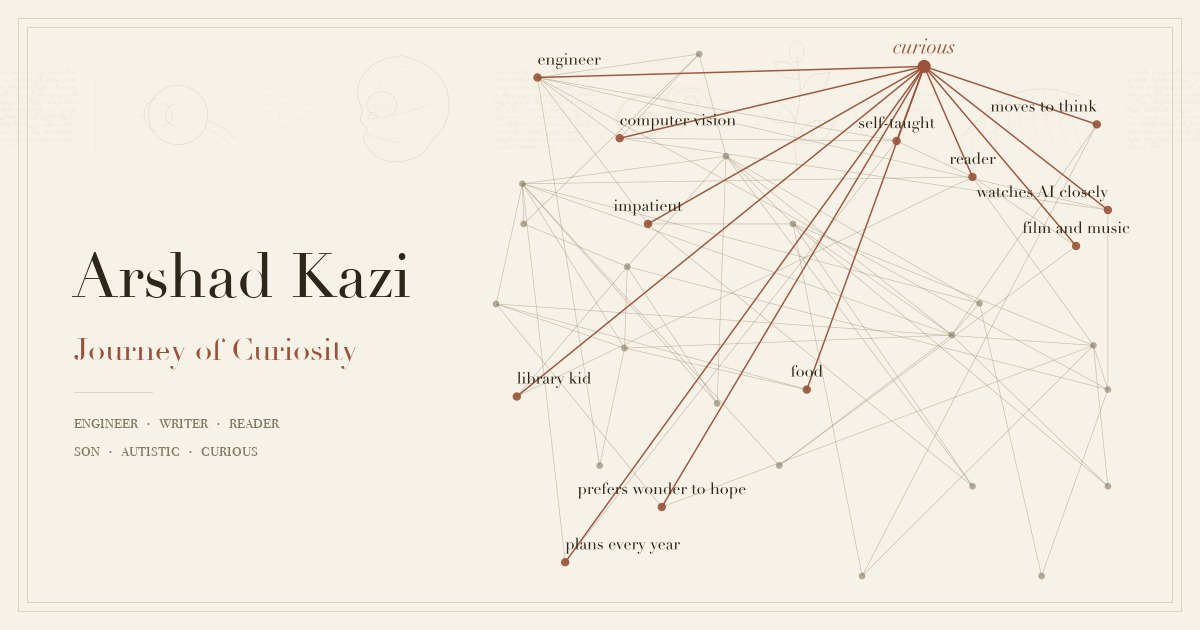
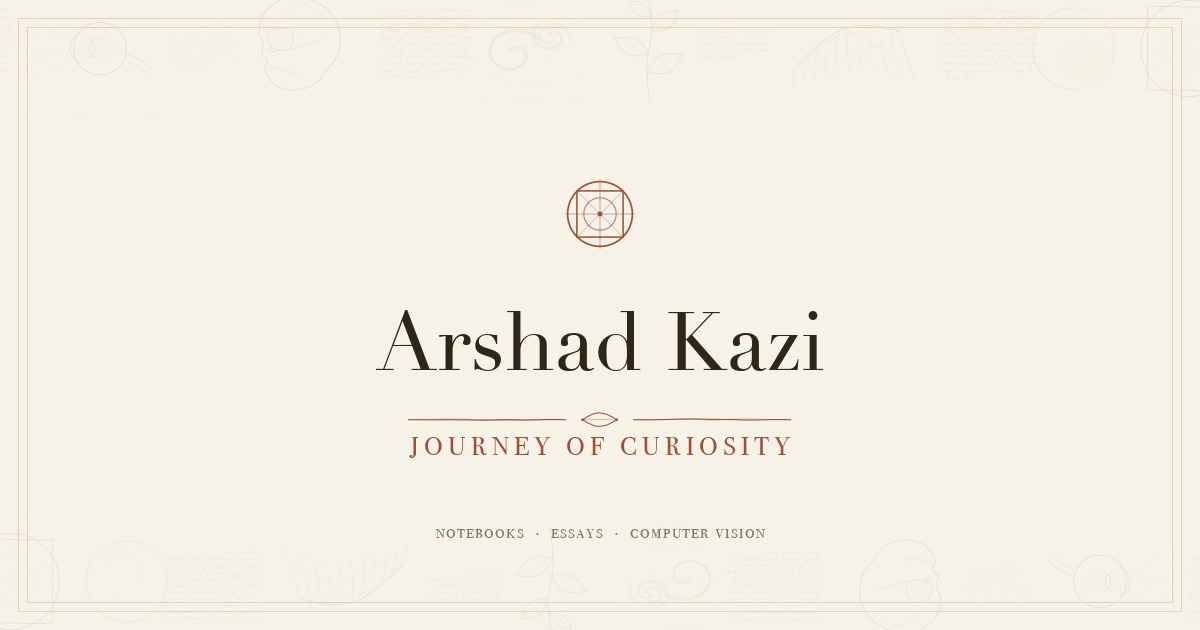
Make the sharing card a title page rather than the drawing
The drawing does not survive being shrunk to a chat thumbnail: the ties
turn to noise and the names are unreadable at that size, which is a poor
first impression of a page whose whole point is legibility.

The card is a title page now. The emblem from the masthead, the name, the
site's line under a flourish, and what is actually here underneath it. The
codex sketches run along the top and bottom edges at fifteen per cent, so
they read as the paper rather than as the picture, and the middle stays
clear. Same ruled frame and the same cream as the other three cards.

diff --git a/generate-og-about.py b/generate-og-about.py
@@ -1,15 +1,14 @@
 #!/usr/bin/env python3
-"""Build the About page's sharing card from the page itself.
+"""Build the sharing card for the site's front page.
 
-The card is the constellation, not a headshot, because the constellation is
-what the page is. Positions and ties are read straight out of the built
-index.html, so the card can never drift from the drawing it represents:
-rebuild the site, run this, and it matches.
+Not the drawing and not a headshot. A title page: the emblem from the
+masthead, the name, the site's own line, ruled the way the other cards are
+ruled, on the same paper. The codex sketches sit at the edges faint enough
+to read as texture rather than as a subject.
 
-    npm run build && python3 generate-og-about.py
+    python3 generate-og-about.py
 """
 
-import math
 import re
 import subprocess
 import tempfile
@@ -25,171 +24,113 @@ MUTED = (133, 122, 98)
 ACCENT = (156, 81, 56)
 BORDER = (221, 210, 186)
 
-BUILT = Path("dist/index.html")
+BAND = Path("public/images/codex-band.svg")
+FLOURISH = Path("public/images/flourish.svg")
 OUT = Path("public/images/og-about.jpg")
 
-
-def read_drawing():
-    """Pull the cells and the ties out of the built page."""
-    html = BUILT.read_text()
-
-    facets = []
-    for m in re.finditer(
-        r'<g class="facet" data-i="(\d+)"[^>]*aria-label="([^"]+)"[^>]*>.*?'
-        r'<circle class="pip" cx="([\d.]+)" cy="([\d.]+)"',
-        html,
-        re.S,
-    ):
-        facets.append(
-            {"i": int(m.group(1)), "label": m.group(2), "x": float(m.group(3)), "y": float(m.group(4))}
-        )
-
-    ties = []
-    for m in re.finditer(
-        r'<line x1="([\d.]+)" y1="([\d.]+)" x2="([\d.]+)" y2="([\d.]+)" data-a="(\d+)" data-b="(\d+)"',
-        html,
-    ):
-        ties.append(
-            {
-                "x1": float(m.group(1)), "y1": float(m.group(2)),
-                "x2": float(m.group(3)), "y2": float(m.group(4)),
-                "a": int(m.group(5)), "b": int(m.group(6)),
-            }
-        )
-
-    if not facets or not ties:
-        raise SystemExit("No drawing found in dist/index.html. Build the site first.")
-    return facets, ties
+ACCENT_HEX = "#%02x%02x%02x" % ACCENT
+BORDER_HEX = "#%02x%02x%02x" % BORDER
 
 
-def build_svg(facets, ties, lit):
-    """The drawing alone, placed in the right two thirds of the card."""
-    xs = [f["x"] for f in facets]
-    ys = [f["y"] for f in facets]
-    minx, maxx = min(xs), max(xs)
-    miny, maxy = min(ys), max(ys)
+def inner_svg(path):
+    """The contents of an svg file, without its outer tag."""
+    return re.sub(r"^<svg[^>]*>|</svg>\s*$", "", path.read_text().strip())
 
-    # Room on the left for the name, the drawing fills what is left.
-    box = (452, 54, 1152, 576)
-    sx = (box[2] - box[0]) / (maxx - minx)
-    sy = (box[3] - box[1]) / (maxy - miny)
-    s = min(sx, sy)
-    ox = box[0] + ((box[2] - box[0]) - (maxx - minx) * s) / 2
-    oy = box[1] + ((box[3] - box[1]) - (maxy - miny) * s) / 2
 
-    def px(f):
-        return ox + (f["x"] - minx) * s, oy + (f["y"] - miny) * s
+def emblem(cx, cy, size):
+    """The mark from the masthead: a squared circle with its sights on."""
+    s = size / 48.0
 
-    ink = "#%02x%02x%02x" % INK
-    muted = "#%02x%02x%02x" % MUTED
-    accent = "#%02x%02x%02x" % ACCENT
+    def p(v):
+        return v * s
 
+    return f"""
+    <g transform="translate({cx - size / 2:.1f}, {cy - size / 2:.1f})"
+       fill="none" stroke="{ACCENT_HEX}" stroke-linecap="round" stroke-linejoin="round">
+      <circle cx="{p(24):.1f}" cy="{p(24):.1f}" r="{p(21):.1f}" stroke-width="{p(1.1):.2f}"/>
+      <rect x="{p(9):.1f}" y="{p(9):.1f}" width="{p(30):.1f}" height="{p(30):.1f}" stroke-width="{p(1):.2f}"/>
+      <circle cx="{p(24):.1f}" cy="{p(24):.1f}" r="{p(10.5):.1f}" stroke-width="{p(0.8):.2f}" opacity="0.65"/>
+      <line x1="{p(24):.1f}" y1="{p(1.5):.1f}" x2="{p(24):.1f}" y2="{p(46.5):.1f}" stroke-width="{p(0.6):.2f}" opacity="0.5"/>
+      <line x1="{p(1.5):.1f}" y1="{p(24):.1f}" x2="{p(46.5):.1f}" y2="{p(24):.1f}" stroke-width="{p(0.6):.2f}" opacity="0.5"/>
+      <line x1="{p(9):.1f}" y1="{p(9):.1f}" x2="{p(39):.1f}" y2="{p(39):.1f}" stroke-width="{p(0.5):.2f}" opacity="0.35"/>
+      <line x1="{p(39):.1f}" y1="{p(9):.1f}" x2="{p(9):.1f}" y2="{p(39):.1f}" stroke-width="{p(0.5):.2f}" opacity="0.35"/>
+      <circle cx="{p(24):.1f}" cy="{p(24):.1f}" r="{p(1.6):.1f}" fill="{ACCENT_HEX}" stroke="none"/>
+    </g>"""
+
+
+def build_svg():
     parts = [f'<svg xmlns="http://www.w3.org/2000/svg" width="{W}" height="{H}">']
-    parts.append(f'<rect width="{W}" height="{H}" fill="#%02x%02x%02x"/>' % BG)
+    parts.append('<rect width="%d" height="%d" fill="#%02x%02x%02x"/>' % (W, H, *BG))
 
-    # The masthead sketches, faint enough to read as paper rather than as a
-    # subject. It ties the card to the top of the site without competing
-    # with the drawing.
-    band = Path("public/images/codex-band.svg")
-    if band.exists():
-        inner = re.sub(r"^<svg[^>]*>|</svg>\s*$", "", band.read_text().strip())
+    # Sketches along the top and bottom edges only, so the middle stays clear
+    # for the name. Faint: this is the paper, not the picture.
+    if BAND.exists():
+        band = inner_svg(BAND)
+        parts.append(f'<g opacity="0.15" transform="translate(-120, -34) scale(0.55)">{band}</g>')
         parts.append(
-            f'<g opacity="0.13" transform="translate(-70, 22) scale(0.62)">{inner}</g>'
+            f'<g opacity="0.13" transform="translate(1320, 664) scale(-0.55) ">{band}</g>'
         )
 
-    for t in ties:
-        a, b = facets[t["a"]], facets[t["b"]]
-        x1, y1 = px(a)
-        x2, y2 = px(b)
-        on = t["a"] == lit or t["b"] == lit
-        col = accent if on else muted
-        wid = 1.5 if on else 0.7
-        op = 0.95 if on else 0.42
-        parts.append(
-            f'<line x1="{x1:.1f}" y1="{y1:.1f}" x2="{x2:.1f}" y2="{y2:.1f}" '
-            f'stroke="{col}" stroke-width="{wid}" stroke-opacity="{op}"/>'
-        )
+    parts.append(emblem(W / 2, 214, 74))
 
-    kin = {t["b"] if t["a"] == lit else t["a"] for t in ties if lit in (t["a"], t["b"])}
-    for f in facets:
-        x, y = px(f)
-        if f["i"] == lit:
-            col, r, op = accent, 6.5, 1
-        elif f["i"] in kin:
-            col, r, op = accent, 4.2, 0.9
-        else:
-            col, r, op = muted, 3.4, 0.6
-        parts.append(f'<circle cx="{x:.1f}" cy="{y:.1f}" r="{r}" fill="{col}" fill-opacity="{op}"/>')
-
-    # Only the lit cluster is named, so the card stays legible at thumbnail size.
-    for f in facets:
-        if f["i"] != lit and f["i"] not in kin:
-            continue
-        x, y = px(f)
-        size = 21 if f["i"] == lit else 16
-        col = accent if f["i"] == lit else ink
-        style = "italic" if f["i"] == lit else "normal"
-        anchor = "start" if x < 620 else ("end" if x > 1080 else "middle")
+    if FLOURISH.exists():
+        # 320 wide as drawn, centred under the name.
         parts.append(
-            f'<text x="{x:.1f}" y="{y - 13:.1f}" font-family="Didot, Georgia, serif" '
-            f'font-size="{size}" font-style="{style}" fill="{col}" text-anchor="{anchor}">{f["label"]}</text>'
+            f'<g transform="translate({W / 2 - 210:.0f}, 404) scale(1.31)">{inner_svg(FLOURISH)}</g>'
         )
 
     parts.append("</svg>")
     return "\n".join(parts)
 
 
+def font(name, size):
+    for path in (
+        f"/System/Library/Fonts/Supplemental/{name}",
+        "/System/Library/Fonts/Supplemental/Didot.ttc",
+    ):
+        try:
+            return ImageFont.truetype(path, size)
+        except OSError:
+            continue
+    return ImageFont.load_default()
+
+
+def centred(draw, y, text, fnt, fill, tracking=0):
+    """Draw centred, optionally letterspaced."""
+    if not tracking:
+        w = draw.textbbox((0, 0), text, font=fnt)[2]
+        draw.text(((W - w) / 2, y), text, font=fnt, fill=fill)
+        return
+    widths = [draw.textbbox((0, 0), ch, font=fnt)[2] for ch in text]
+    total = sum(widths) + tracking * (len(text) - 1)
+    x = (W - total) / 2
+    for ch, w in zip(text, widths):
+        draw.text((x, y), ch, font=fnt, fill=fill)
+        x += w + tracking
+
+
 def main():
-    facets, ties = read_drawing()
-
-    # Light whichever cell is tied to the most others: it shows the most.
-    degree = {f["i"]: 0 for f in facets}
-    for t in ties:
-        degree[t["a"]] += 1
-        degree[t["b"]] += 1
-    lit = max(degree, key=lambda k: degree[k])
-
-    svg = build_svg(facets, ties, lit)
+    svg = build_svg()
     with tempfile.NamedTemporaryFile(suffix=".svg", delete=False) as tmp:
         tmp.write(svg.encode())
         svg_path = tmp.name
     png_path = svg_path.replace(".svg", ".png")
-    subprocess.run(
-        ["rsvg-convert", "-w", str(W), "-h", str(H), "-o", png_path, svg_path], check=True
-    )
+    subprocess.run(["rsvg-convert", "-w", str(W), "-h", str(H), "-o", png_path, svg_path], check=True)
 
     img = Image.open(png_path).convert("RGB")
     draw = ImageDraw.Draw(img)
 
-    def font(name, size):
-        for path in (
-            f"/System/Library/Fonts/Supplemental/{name}",
-            "/System/Library/Fonts/Supplemental/Didot.ttc",
-        ):
-            try:
-                return ImageFont.truetype(path, size)
-            except OSError:
-                continue
-        return ImageFont.load_default()
-
-    f_name = font("Didot.ttc", 62)
-    f_line = font("Didot.ttc", 31)
-    f_small = font("Bodoni 72 Smallcaps Book.ttf", 19)
-
-    # The ruled border the other cards use.
+    # The same ruled frame the other cards carry.
     draw.rectangle([18, 18, W - 19, H - 19], outline=BORDER, width=1)
     draw.rectangle([27, 27, W - 28, H - 28], outline=BORDER, width=1)
 
-    draw.text((72, 238), "Arshad Kazi", font=f_name, fill=INK)
-    draw.text((74, 330), "Journey of Curiosity", font=f_line, fill=ACCENT)
-
-    draw.line([(74, 392), (152, 392)], fill=BORDER, width=1)
-    draw.text((74, 410), "engineer  ·  writer  ·  reader", font=f_small, fill=MUTED)
-    draw.text((74, 438), "son  ·  autistic  ·  curious", font=f_small, fill=MUTED)
+    centred(draw, 292, "Arshad Kazi", font("Didot.ttc", 82), INK)
+    centred(draw, 430, "JOURNEY OF CURIOSITY", font("Bodoni 72 Smallcaps Book.ttf", 26), ACCENT, tracking=5)
+    centred(draw, 520, "notebooks  ·  essays  ·  computer vision", font("Bodoni 72 Smallcaps Book.ttf", 19), MUTED, tracking=1)
 
     OUT.parent.mkdir(parents=True, exist_ok=True)
     img.save(OUT, "JPEG", quality=92, optimize=True)
-    print(f"wrote {OUT} ({OUT.stat().st_size // 1024} KB), lit facet: {facets[lit]['label']}")
+    print(f"wrote {OUT} ({OUT.stat().st_size // 1024} KB)")
 
 
 if __name__ == "__main__":
